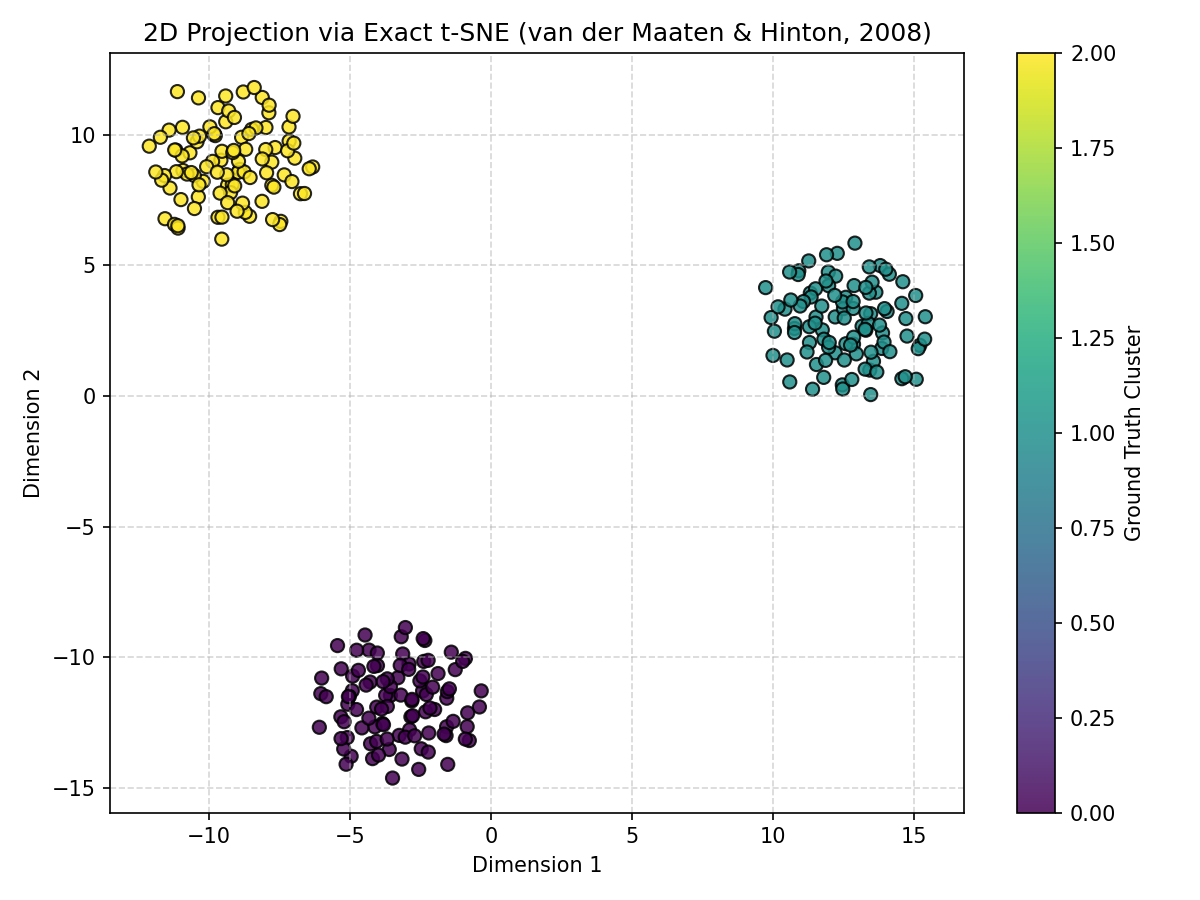
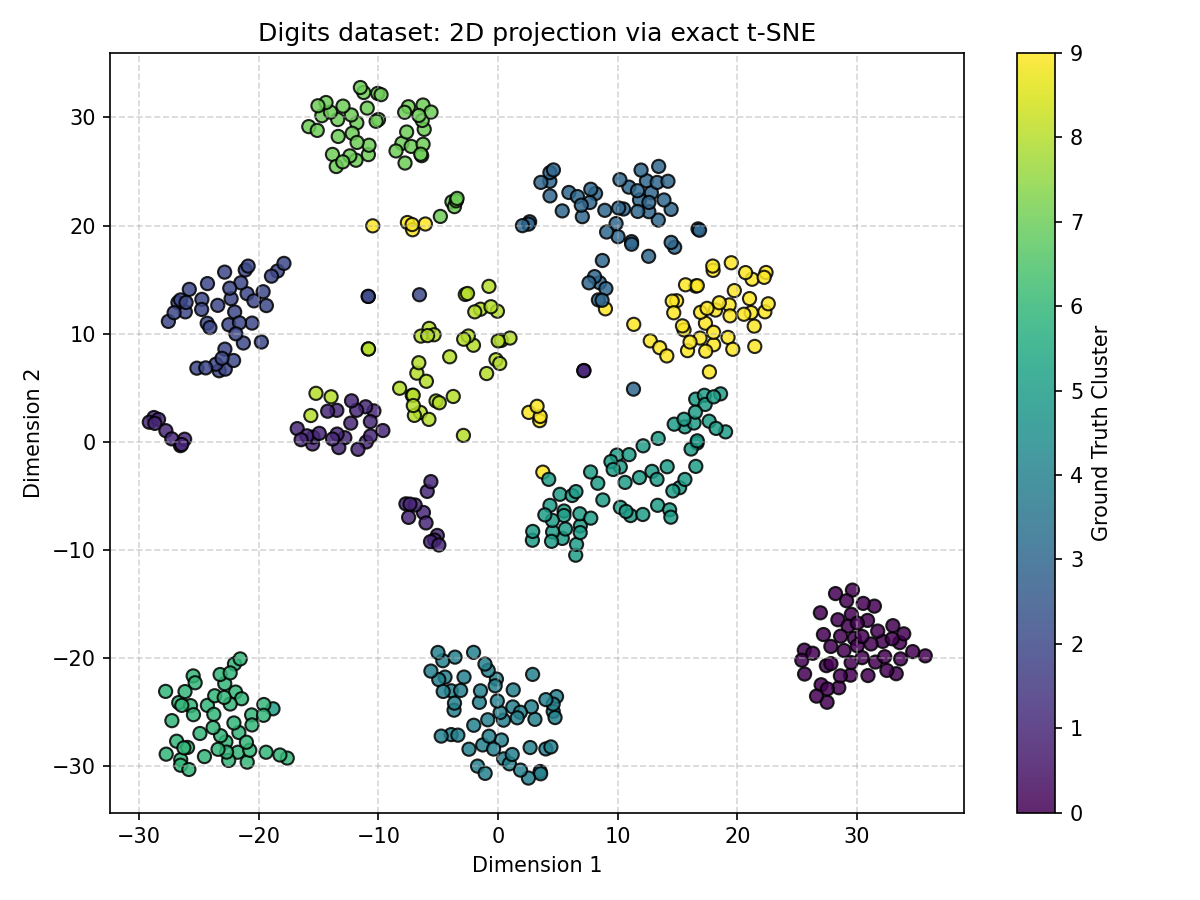
Final

diff --git a/tsne_exact.py b/tsne_exact.py
@@ -8,7 +8,8 @@ based on the original paper:
 
 import numpy as np
 import matplotlib.pyplot as plt
-from sklearn.datasets import make_blobs
+from sklearn.decomposition import PCA
+from sklearn.datasets import load_digits, load_iris
 
 
 def compute_squared_pairwise_distances(X: np.ndarray) -> np.ndarray:
@@ -181,23 +182,64 @@ def tsne(X: np.ndarray, no_dims: int = 2, perplexity: float = 30.0,
 if __name__ == "__main__":
     np.random.seed(42)
 
-    # Generate synthetic 50-dimensional dataset with 3 clusters
-    n_samples = 300
-    n_features = 50
-    centers = 3
-    X, labels = make_blobs(n_samples=n_samples, n_features=n_features, centers=centers, random_state=42)
+    # Use a reproducible subset of the real handwritten-digits dataset.
+    X, labels = load_digits(return_X_y=True)
+    sample_indices = np.random.choice(X.shape[0], size=500, replace=False)
+    X = X[sample_indices]
+    labels = labels[sample_indices]
 
-    print(f"Running t-SNE on {n_samples} samples with {n_features} features...")
-    Y = tsne(X, no_dims=2, perplexity=30.0, max_iter=500)
+    # Reduce the 64 pixel features to 30 before running exact t-SNE.
+    X_pca = PCA(n_components=30, random_state=42).fit_transform(X)
+    print(f"Running t-SNE on {len(X)} Digits samples after PCA ({X.shape[1]} -> {X_pca.shape[1]} features)...")
+    Y = tsne(X_pca, no_dims=2, perplexity=30.0, max_iter=500)
 
     # Plot the 2D projected embedding
     plt.figure(figsize=(8, 6))
     scatter = plt.scatter(Y[:, 0], Y[:, 1], c=labels, cmap="viridis", s=40, edgecolors="k", alpha=0.85)
-    plt.title("2D Projection via Exact t-SNE (van der Maaten & Hinton, 2008)")
+    plt.title("Digits dataset: 2D projection via exact t-SNE")
     plt.xlabel("Dimension 1")
     plt.ylabel("Dimension 2")
     plt.grid(True, linestyle="--", alpha=0.5)
     plt.colorbar(scatter, label="Ground Truth Cluster")
     plt.tight_layout()
     plt.savefig("tsne_projection_demo.png", dpi=150)
-    print("Execution complete. Projection figure saved as 'tsne_projection_demo.png'.")
+    print("Execution complete. Projection saved as 'tsne_projection_demo.png'.")
+
+    # Compare t-SNE with the known species labels in the Iris dataset.
+    iris = load_iris()
+    iris_reference = PCA(n_components=2, random_state=42).fit_transform(iris.data)
+    print(f"Running t-SNE on {len(iris.data)} Iris samples ({iris.data.shape[1]} features)...")
+    iris_embedding = tsne(iris.data, no_dims=2, perplexity=30.0, max_iter=500)
+
+    fig, axes = plt.subplots(1, 2, figsize=(12, 5), constrained_layout=True)
+    for ax, coordinates, title in zip(
+        axes,
+        (iris_reference, iris_embedding),
+        ("PCA reference (known species)", "Exact t-SNE embedding"),
+    ):
+        scatter = ax.scatter(
+            coordinates[:, 0],
+            coordinates[:, 1],
+            c=iris.target,
+            cmap="viridis",
+            vmin=0,
+            vmax=2,
+            s=40,
+            edgecolors="k",
+            alpha=0.85,
+        )
+        ax.set_title(title)
+        ax.set_xlabel("Dimension 1")
+        ax.set_ylabel("Dimension 2")
+        ax.grid(True, linestyle="--", alpha=0.5)
+
+    colorbar = fig.colorbar(
+        scatter,
+        ax=axes,
+        ticks=np.arange(len(iris.target_names)),
+        label="Known Iris species",
+    )
+    colorbar.ax.set_yticklabels(iris.target_names)
+    fig.suptitle("Iris: known labels compared with t-SNE")
+    fig.savefig("iris_tsne_comparison.png", dpi=150)
+    print("Iris comparison saved as 'iris_tsne_comparison.png'.")

diff --git a/README.md b/README.md
@@ -30,6 +30,24 @@ pip install numpy matplotlib scikit-learn pytest
 
 ## 🧪 Running and Adding Tests
 
+### Run the Digits Dataset Demo
+
+The `tsne` function operates on the input features it receives; PCA is not part
+of the t-SNE implementation itself. To demonstrate a common pre-processing
+pipeline, running the script loads 500 handwritten digits from scikit-learn's
+Digits dataset, reduces the 64 pixel features to 30 with PCA, then runs exact
+t-SNE and saves a labeled scatter plot as `tsne_projection_demo.png`:
+
+```bash
+python tsne_exact.py
+```
+
+The same run also uses the Iris dataset, which has known species labels. Its
+comparison plot shows a 2D PCA reference and the t-SNE embedding, both colored
+by the known species, in `iris_tsne_comparison.png`. Since t-SNE is an
+embedding algorithm rather than a classifier, compare the class separation
+visually rather than treating its coordinates as predicted labels.
+
 ### How to Run the Tests
 
 The project includes an automated test suite powered by `pytest` to verify mathematical accuracy, distance matrix symmetry, probability normalizations, and numerical stability.
